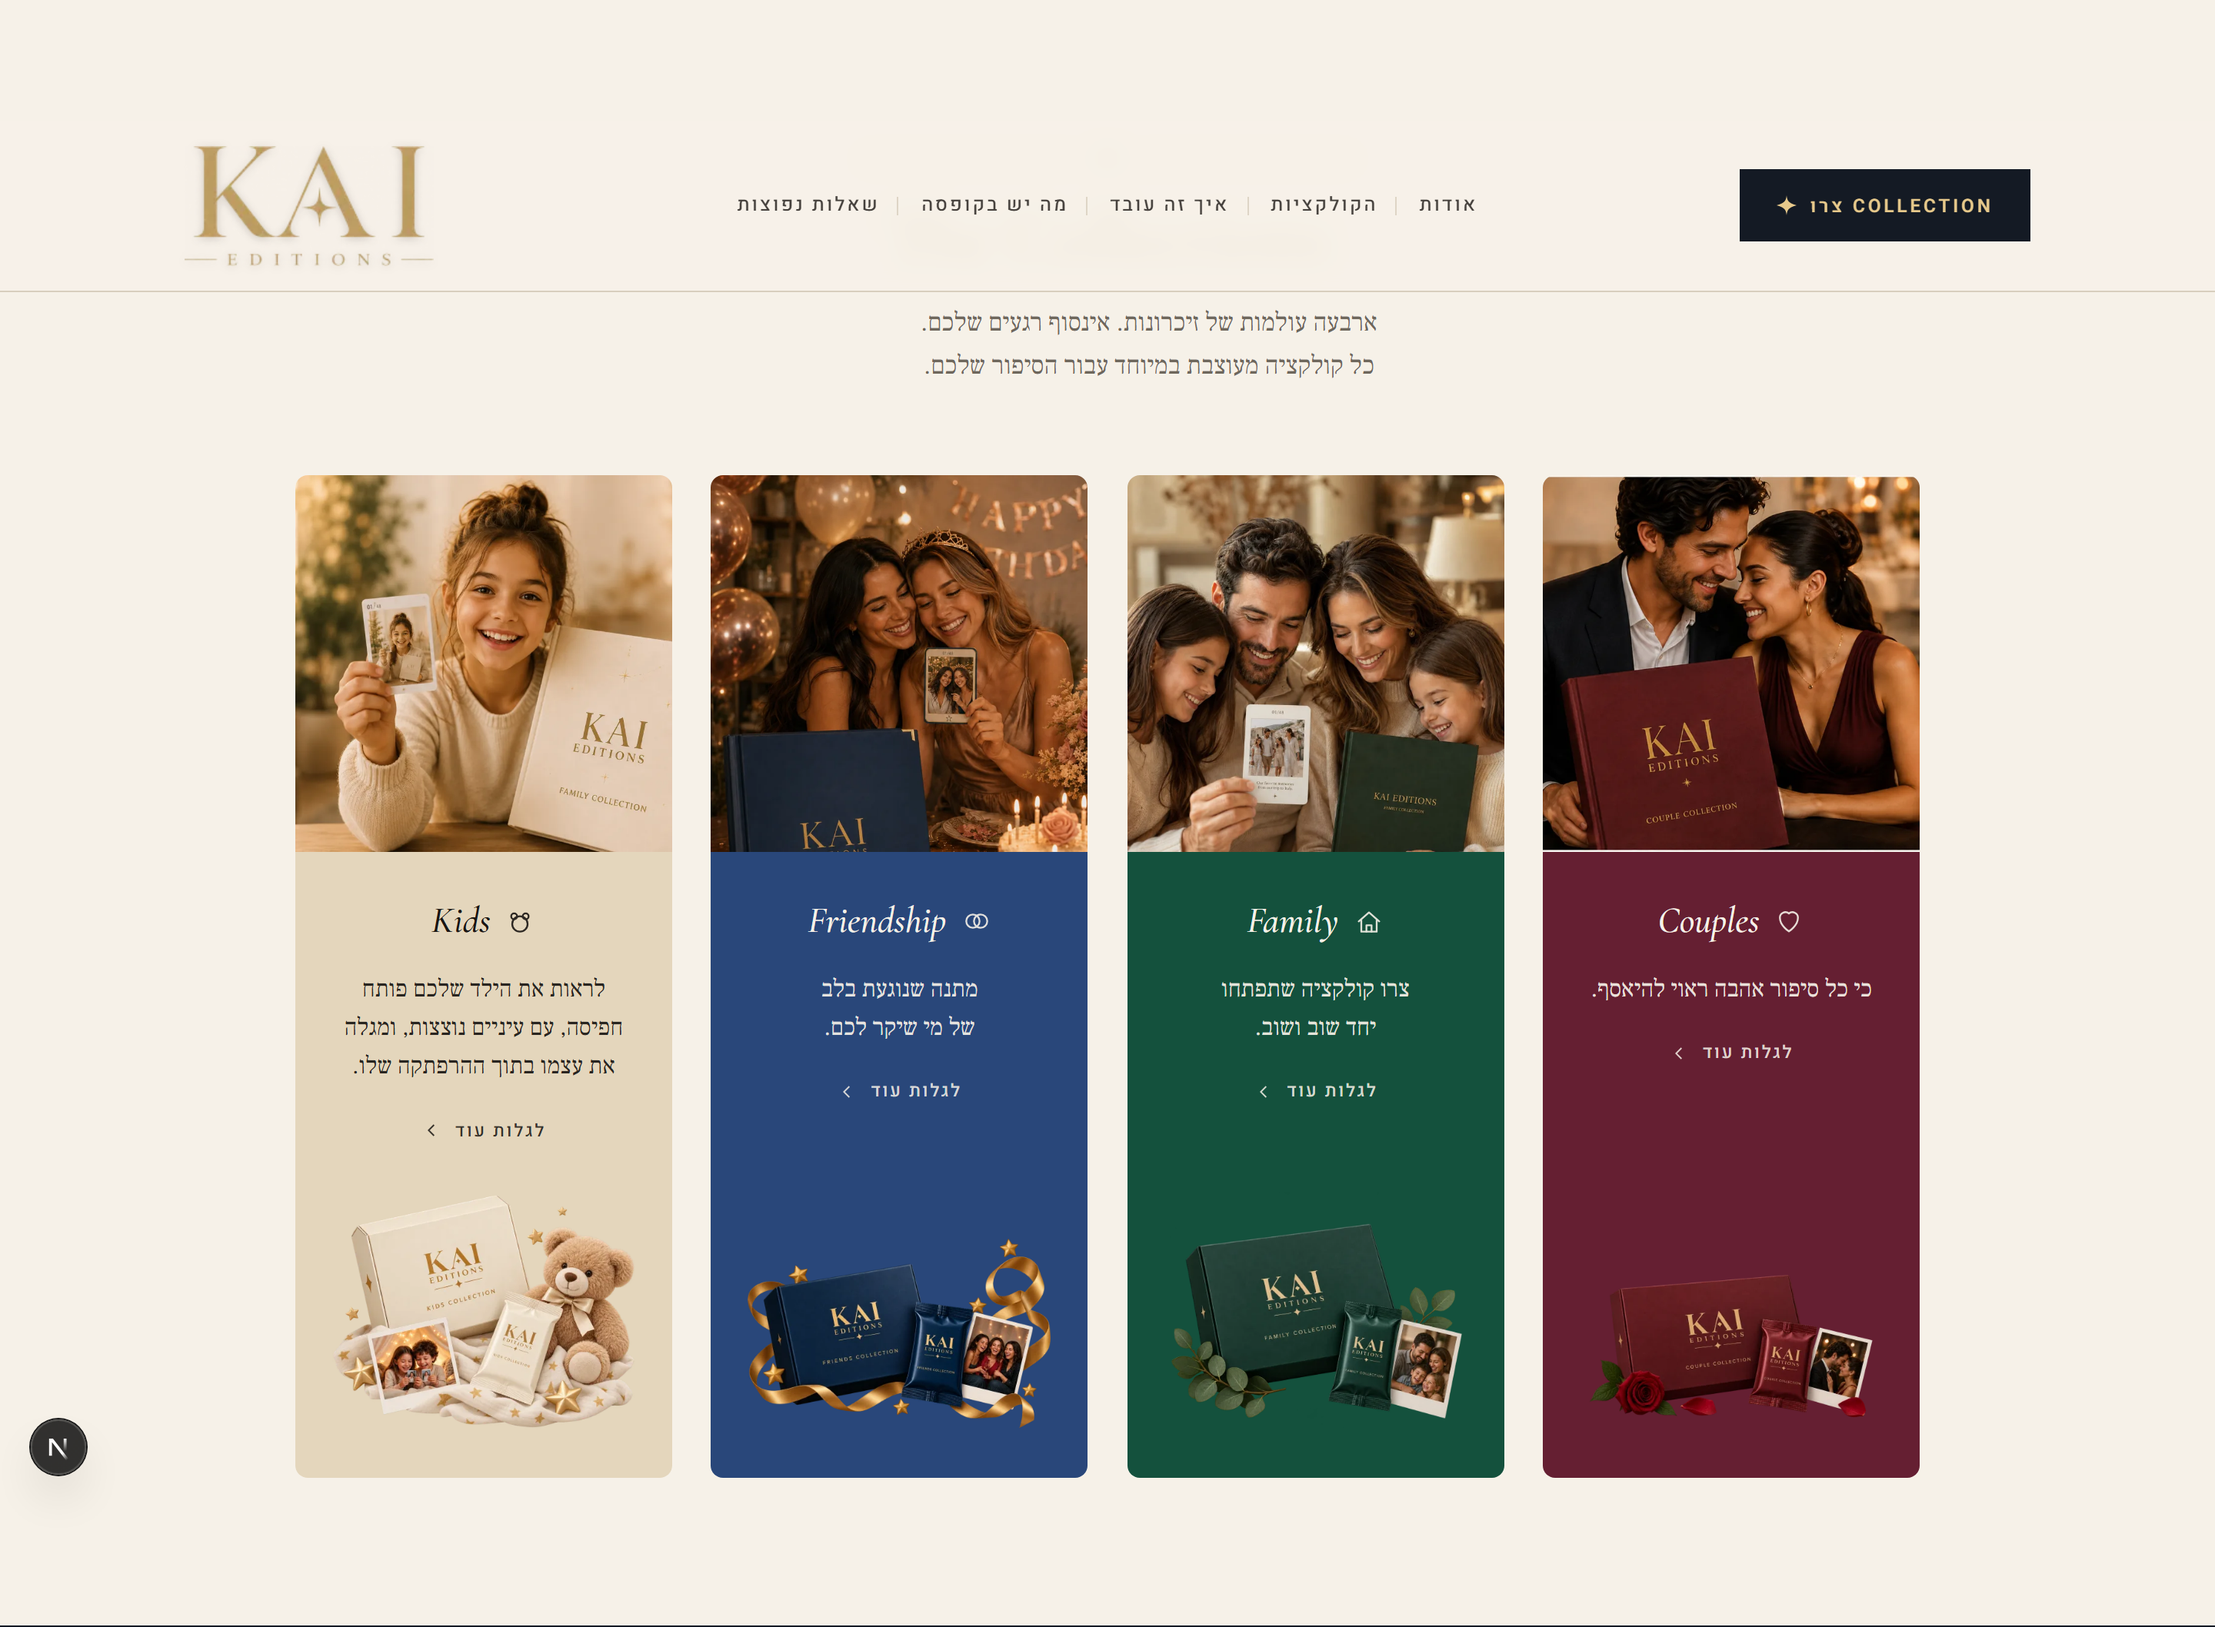
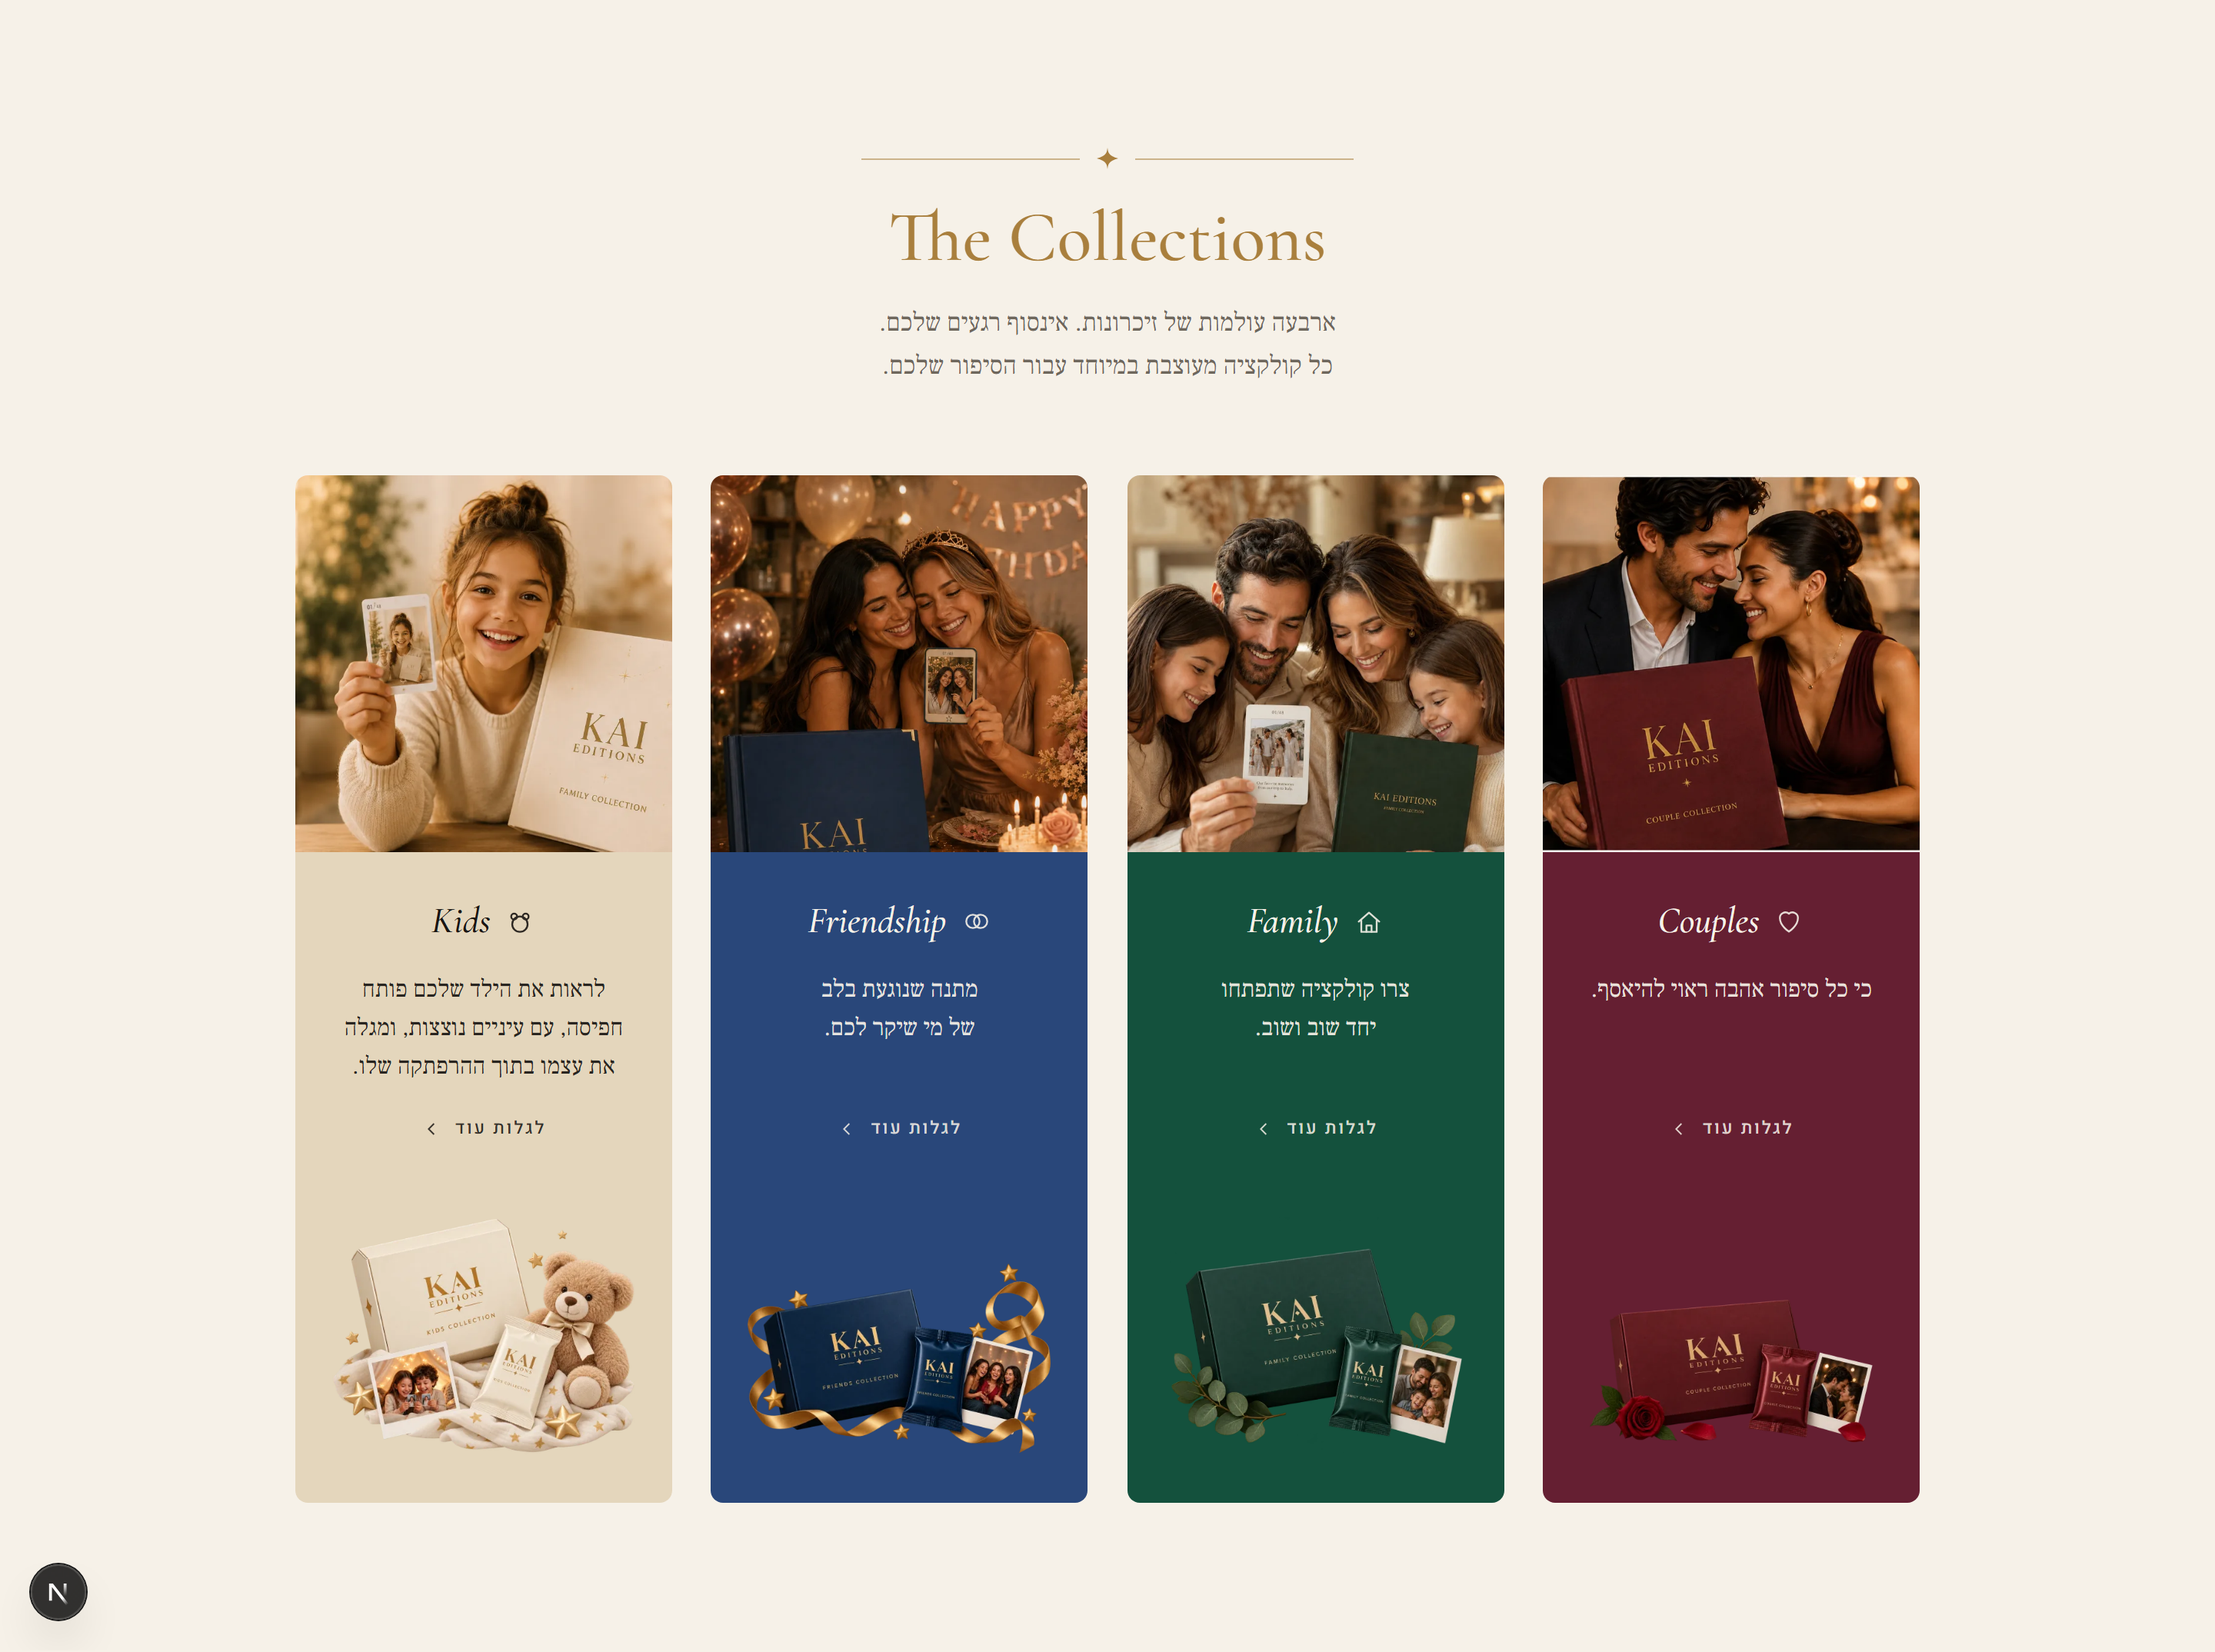
עדכון חבילת ה-GPT: How It Works + צילומי מסך רעננים
- BRIEF-for-GPT.md: נוסף תיאור מודול "איך זה עובד" + כלל כותרות
  (שם-פיצ'ר אנגלי = זהב · כותרת עברית = דיו כהה גדול) + signature "שלבים ממוספרים"
- צילומי מסך עודכנו: hero (גרסה מוכלת), collections (מתוקן), how-it-works (חדש), מובייל

diff --git a/docs/design-package/BRIEF-for-GPT.md b/docs/design-package/BRIEF-for-GPT.md
@@ -75,6 +75,7 @@ Body ≈ 1.05rem, line-height ~1.7.
 4. **Contained imagery** — photos sit as neat blocks/cards **on the cream background** (rounded ~8–14px corners), *not* full-bleed. Cream is the frame.
 5. **Line-colored panels** — collection content sits on a solid burgundy/green/navy/sand panel, text centered, gold serif English name + tiny line icon.
 6. **Warm candle-lit photography** — real people, real emotion, warm gold light, burgundy KAI product visible. Never cold studio white.
+7. **Numbered steps** — large gold serif numerals ("01", "02"…), each with a short gold rule beneath, a serif title and a soft description. RTL order (01 on the right). Group them and separate groups with thin vertical hairlines. A supporting photo can sit under each group.
 
 ---
 
@@ -94,12 +95,15 @@ Body ≈ 1.05rem, line-height ~1.7.
 - **Hero** (`02-hero.png`) — cream bg; left: big Hebrew serif headline + gold star-divider + short paragraph + dark CTA; right: warm lifestyle photo as a rounded contained card.
 - **Trust bar** (`03-trustbar.png`) — 5 columns on cream, thin gold line icon + bold serif title + soft description, centered, hairline separators.
 - **The Collections** (`04-collections.png`) — centered gold "The Collections" heading + star-divider + 2-line subtitle; then 4 tall cards. Each card: lifestyle photo on top → solid line-color panel (centered: gold italic English name + icon, short tagline, "לגלות עוד ‹", and a product shot of the box+pack+polaroid at the bottom).
+- **How It Works** (`05-howitworks.png`) — centered star-divider + big **dark Hebrew serif** heading "איך זה עובד" (this one is NOT gold — Hebrew titles are dark ink, only English feature-names are gold) + 1-line subtitle. Then **6 numbered steps in a single row**, RTL (01 rightmost → 06 leftmost), grouped 2+2+2 with thin vertical hairlines between the 3 groups. Each step: large gold serif numeral "01" · short gold rule · serif title · soft 1–2-line description. Directly **below each pair of steps sits one supporting photo** (4:3, rounded ~10px, soft shadow) — 3 photos total, aligned to the step-pairs. Then a centered dark CTA pill "✦ מתחילים את הסיפור שלכם", then a hairline and a centered one-line reassurance note with a ✦.
+
+> **Heading rule (clarified):** English feature names ("The Collections", "How It Works" as a label, "Card Tiers") → gold serif. Actual Hebrew section titles ("איך זה עובד") → large **dark ink** serif. Pick one per section, not both.
 
 ---
 
 ## 7. Prompt to generate the next section
 
-> This is my brand **KAI EDITIONS**. Attached: the design brief + screenshots of the current site (hero, trust bar, collections).
+> This is my brand **KAI EDITIONS**. Attached: the design brief + screenshots of the current site (hero, trust bar, collections, how-it-works).
 >
 > Design a **high-fidelity desktop mockup** (1440px wide) for the **"[SECTION NAME]"** section, in the **exact same visual language**:
 > warm cream background `#F6F1E8`, warm near-black text `#1A1613`, one restrained gold `#A97F3D` accent, elegant high-contrast serif headings (Cormorant / Frank Ruhl Libre), Hebrew RTL, the thin gold star-divider (✦) between heading and paragraph, contained rounded photos on cream (not full-bleed), plenty of whitespace.
